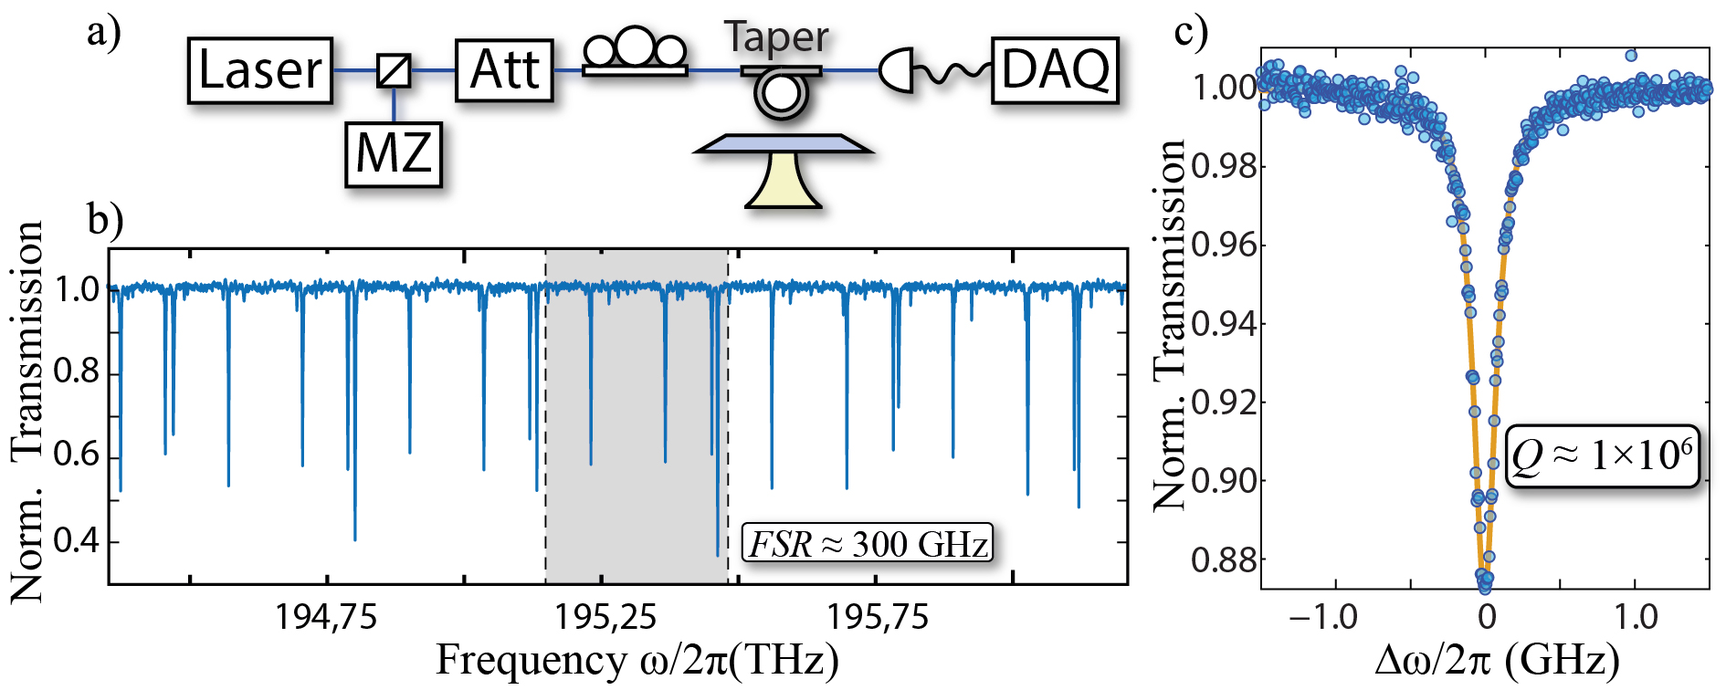
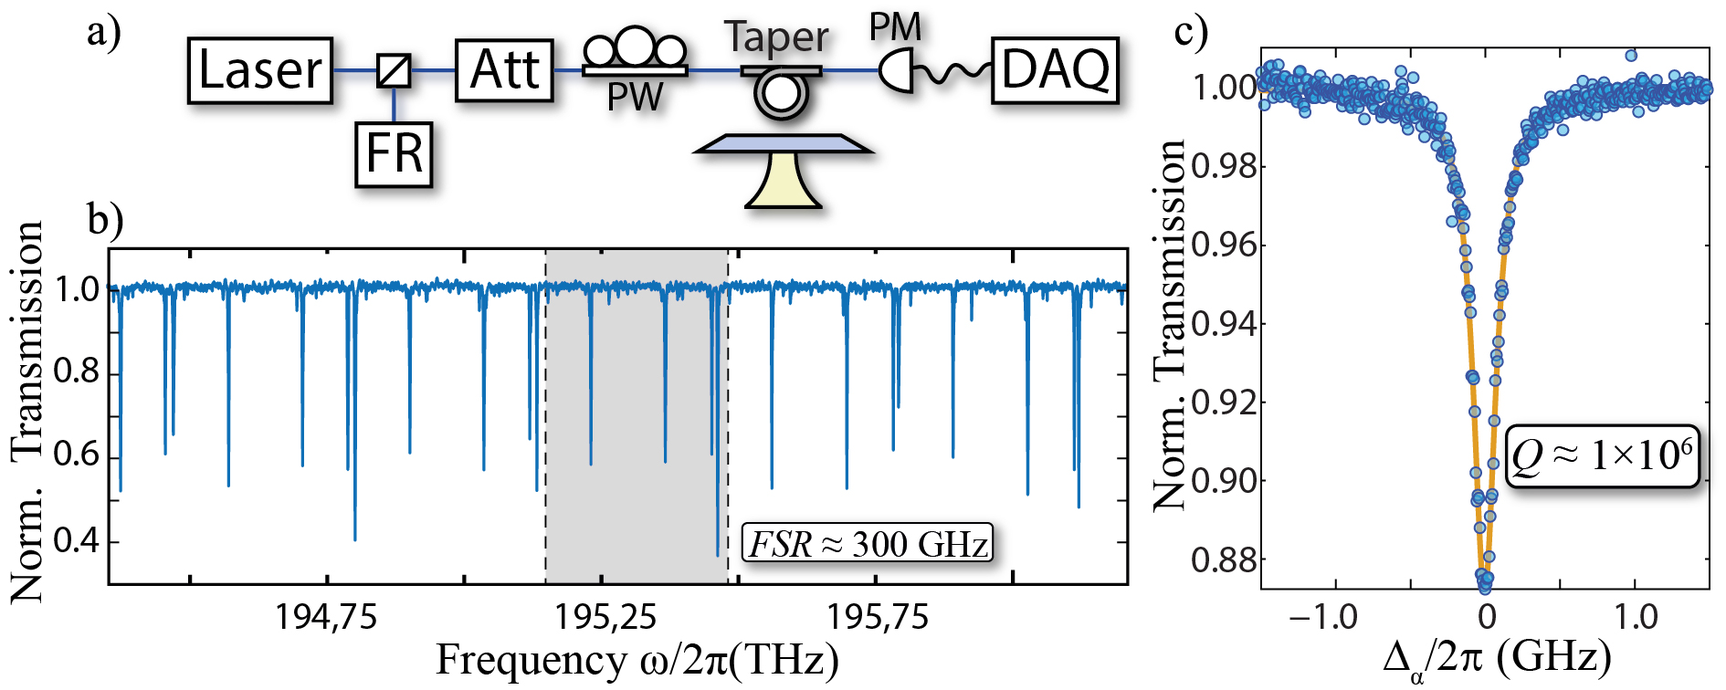
Updates from Overleaf

diff --git a/dis_jhs_cap3.tex b/dis_jhs_cap3.tex
@@ -71,38 +71,38 @@ This step introduce some extra terms in the Eq~\ref{eq:rate_equation_1}, which r
 \end{equation}
 Wheres $\kappa_\alpha = \kappa^{(i)}_\alpha+\kappa^{(e)}_\alpha$ are the total rate of energy loss, composed by the intrinsic loss, suck material absorption and scattering loss, and couple loss due to coupling with the source. 
 
-Finally, from input-output theory, it can be show that the feeding term can be written as $\sqrt{\kappa^{(e)}_\alpha}a_{in}(t)$, where $|a_{in}|^2$ gives the input power. Beside that, for our first analysis, we will consider that the nonlinear therm is small enough to be disregarded. This trick enable us to treat separately the temporal and spatial behavior of the optical modes. 
+Finally, from input-output theory, it can be show that the feeding term can be written as $\sqrt{\kappa^{(e)}_\alpha}S_{in}(t)$, where $|S_{in}|^2$ gives the input power. Beside that, for our first analysis, we will consider that the nonlinear therm is small enough to be disregarded. This trick enable us to treat separately the temporal and spatial behavior of the optical modes. 
 
 \subsection{Temporal Equations}
 
 To describe the temporal evolution of the confined modes, we use the rate equation write as 
 \begin{equation}
-    \dot{a}_\alpha = -\left(i\omega_\alpha +\frac{\kappa_\alpha}{2}\right)a_\alpha +\sqrt{\kappa^{(e)}_\alpha}a_{in}(t).
+    \dot{a}_\alpha = -\left(i\omega_\alpha +\frac{\kappa_\alpha}{2}\right)a_\alpha +\sqrt{\kappa^{(e)}_\alpha}S_{in}(t).
     \label{eq:rate_equation2}
 \end{equation} 
 
-In typical laboratory condition, $a_{in}(t)$ correspond to a narrow spectral distribution centered at frequency $\omega$. We are able to rewrite Eq~\ref{eq:rate_equation2} in a rotating reference frame that turns the source terms into a constant by interchange $a_\alpha \rightarrow a_\alpha e^{-i\omega t}$
+In typical laboratory condition, $S_{in}(t)$ correspond to a narrow spectral distribution centered at frequency $\omega$. We are able to rewrite Eq~\ref{eq:rate_equation2} in a rotating reference frame that turns the source terms into a constant by interchange $a_\alpha \rightarrow a_\alpha e^{-i\omega t}$
 \begin{equation}
-    \dot{a}_\alpha = -\left(i\Delta_\alpha +\frac{\kappa_\alpha}{2}\right)a_\alpha +\sqrt{\kappa^{(e)}_\alpha}a_{in}.
+    \dot{a}_\alpha = -\left(i\Delta_\alpha +\frac{\kappa_\alpha}{2}\right)a_\alpha +\sqrt{\kappa^{(e)}_\alpha}S_{in}.
     \label{eq:rate_equation_unperturbed}
 \end{equation}
 where $\Delta_\alpha = \omega_\alpha - \omega$ is called the detuning.
 \begin{figure}[t!]
     \centering
     \includegraphics[width = 16cm]{Dissertation_rate_equation.jpg}
-    \caption{\textbf{a) Time Dependence Solution of Intracavity Energy:} The energy stored in a cavity oscillate in a frequency $\Delta_\alpha$ and decay with a rate $\kappa_\alpha$ to the Stead Solution. \textbf{b) Picture System:} Our System are compound by a cavity with a single mode $a_\alpha$ that presents intrinsic loss $\kappa_\alpha^{(i)}$. The mode couple with a Source at a rate $\kappa_\alpha^{(e)}$ and interacts with an incoming wave with complex amplitude $a_{in}$. The squared modulus of the output $S_\alpha$ are measured. \textbf{c) Spectroscopy of the $\alpha$th mode:} The transmission of the cavity gives a Lorentzian curve wheres the full width at half maximum correspond to the total loss. This graphic show it for three different regimes.}
+    \caption{\textbf{a) Time Dependence Solution of Intracavity Energy:} The energy stored in a cavity oscillate in a frequency $\Delta_\alpha$ and decay with a rate $\kappa_\alpha$ to the Stead Solution. \textbf{b) Picture System:} Our System are compound by a cavity with a single mode $a_\alpha$ that presents intrinsic loss $\kappa_\alpha^{(i)}$. The mode couple with a Source at a rate $\kappa_\alpha^{(e)}$ and interacts with an incoming wave with complex amplitude $S_{in}$. The squared modulus of the output $S_\alpha$ are measured. \textbf{c) Spectroscopy of the $\alpha$th mode:} The transmission of the cavity gives a Lorentzian curve wheres the full width at half maximum correspond to the total loss. This graphic show it for three different regimes.}
     \label{fig:rate_equations_single_mode}
 \end{figure}
 
 The Eq~\ref{eq:rate_equation_unperturbed} accepts harmonic solutions with frequency $\Delta_\alpha$. Nevertheless these solutions decay, with a  $\kappa_\alpha/2$ rate, into a steady state solution. We usually operates the system in a time scale much larger than $\kappa^{-1}$, thus we consider just the steady state solution, as show in Fig~\subref{fig:rate_equations_single_mode}{a}
 
-We have already introduced the required formalism to describe our problem, at this point a more pictorial view of it would be very useful. For that we shall use the Fig~\subref{fig:rate_equations_single_mode}{b}. Lets consider our system composed by a optical cavity and a source. This cavity have a optical mode with amplitude $a_\alpha$, and present intrinsic energy loss $\kappa_\alpha^{(i)}$ due scattering and absorption. The source carry a input wave $a_{in}$ at frequency $\omega$ which couple with the cavity at a $\kappa_\alpha^{(e)}$ rate, the optical mode couple back with the source at the same frequency, in such way that this couple is seen as a loss channel. The outgoing wave, defined as $S_\alpha$, carry information about the source and the optical mode, in this way
+We have already introduced the required formalism to describe our problem, at this point a more pictorial view of it would be very useful. For that we shall use the Fig~\subref{fig:rate_equations_single_mode}{b}. Lets consider our system composed by a optical cavity and a source. This cavity have a optical mode with amplitude $a_\alpha$, and present intrinsic energy loss $\kappa_\alpha^{(i)}$ due scattering and absorption. The source carry a input wave $S_{in}$ at frequency $\omega$ which couple with the cavity at a $\kappa_\alpha^{(e)}$ rate, the optical mode couple back with the source at the same frequency, in such way that this couple is seen as a loss channel. The outgoing wave, defined as $S_\alpha$, carry information about the source and the optical mode, in this way
 \begin{equation}
-    S_\alpha = a_{in} - \sqrt{2 \kappa_\alpha^{(e)}}a_\alpha.
+    S_\alpha = S_{in} - \sqrt{2 \kappa_\alpha^{(e)}}a_\alpha.
 \end{equation}
 For the steady state solution we have $\dot{a} = 0$, which lead us to define the transmission of the cavity as
 \begin{equation}
-    T = \left|\frac{S_\alpha}{a_{in}}\right|^2 = \frac{\left(\kappa_\alpha^{(i)} -\kappa_\alpha^{(e)}\right)^2 + (2\Delta_\alpha)^2}{\left(\kappa_\alpha^{(i)} +\kappa_\alpha^{(e)}\right)^2 + (2\Delta_\alpha)^2}.
+    T = \left|\frac{S_\alpha}{S_{in}}\right|^2 = \frac{\left(\kappa_\alpha^{(i)} -\kappa_\alpha^{(e)}\right)^2 + (2\Delta_\alpha)^2}{\left(\kappa_\alpha^{(i)} +\kappa_\alpha^{(e)}\right)^2 + (2\Delta_\alpha)^2}.
     \label{eq:single_mode_transmission}
 \end{equation}
 
@@ -144,7 +144,7 @@ Where $\nabla_t^2 = \nabla^2 - \partial^2/\partial z^2$.
 \begin{figure}[b!]
     \centering
     \includegraphics[width =16cm]{Dissertation_wgm.jpg}
-    \caption{Caption}
+    \caption{\textbf{a) Whispering Gallery Mode:} Intensity of the electric field. The WGM confine the optical mode in the edges of the cavity. \textbf{b) Wedge Cavity:} Image take from a Scanning Electron Microscope of the cavity used in this study. \textbf{c) Coordinates:} The coordinates of the problem are defined as that. This mode is a TM21 with $m = 526$ and frequency $\omega_\alpha/2\pi = 193.5$~THz}.
     \label{fig:wgm}
 \end{figure}
 It might be have been overlooked, but the Eq~\ref{eq:wave_eq} is a system with 6 equation; one for which field in each coordinate. The solution for this set of equation with boundary condition define the optical modes of our problem. To solve this equations we must apply consideration about symmetry, however we use numerical methods to solve it. We will use the commercial software COMSOL\regmark, in Appendix~\ref{app:Comsol_Solution} we explained step by step how this solutions are done. 
@@ -186,7 +186,7 @@ The experiment is made using the setup showed in the  Fig~\ref{fig:exp_mode_char
 \begin{figure}[h!]
     \centering
     \includegraphics[width = 16cm]{figuras/Dissertation_optical_char_exp.jpg}
-    \caption{Caption}
+    \caption{\textbf{a) Experimental Setup:} The key components of the Setup is the Laser used as source, a tapered optical fiber that couple the source with the cavity and power meter to monitor the output. The frequency of the laser are precisely determined using a Frequency Reference (FR) composed of a Mach Zehnder interferometer and a Hydrogen Cyanide cell. We use a tunable attenuator (ATT) to control the input power. The polarization of the input wave is controlled using a fiber polarization control (PW). \textbf{b) Single Mode:} Transmission for a single mode used to measure the losses of the mode. \textbf{c) Broad Band Transmission:} spectroscopy of the cavity for a broad band to measured the Free Spectral Range.} 
     \label{fig:exp_mode_charac}
 \end{figure}
 
@@ -199,12 +199,8 @@ According with the Eq.~\ref{eq:finesse}, we reached a finesse of about $\mathcal
 A Fraction of the losses are due the material absorption, when we are working with high intracavity power this absorption lead to a thermal effects called bistability. 
 
 \subsection{Pump Bistability}
-The resonance frequency of the cavity are correlated with the refractive index of the material, which is a function of the temperature. Treating this as a perturbation problem, we can write \begin{figure}[b]
-    \centering
-    \includegraphics[width = 16cm]{Dissertation_bistabilite.jpg}
-    \caption{Caption}
-    \label{fig:bistable}
-\end{figure}
+
+The resonance frequency of the cavity are correlated with the refractive index of the material, which is a function of the temperature. Treating this as a perturbation problem, we can write 
 
 \begin{subequations}
     \begin{alignat}{2}
@@ -223,25 +219,31 @@ Here, the $\Delta T$ is proportional from the amount of energy absorbed by the m
 \label{eq:pertubation_bistaliti_cavity}
 \end{equation}   
 
-Including the contribution in the rate equation, Eq~\ref{eq:rate_equation2}, after the transformation of reference frame, the bistable rate equation can be write as 
+Including the contribution in the rate equation Eq~\ref{eq:rate_equation2} after the transformation of reference frame, the bistable rate equation can be write as 
 \begin{equation}
-\dot{a}_\alpha = -\left(i\Delta_\alpha + i\omega_\alpha A|a_\alpha|^2 + \frac{\kappa_\alpha}{2}\right)a_\alpha + \sqrt{\kappa^{(e)}_\alpha}a_{in}
+\dot{a}_\alpha = -\left(i\Delta_\alpha + i\omega_\alpha A|a_\alpha|^2 + \frac{\kappa_\alpha}{2}\right)a_\alpha + \sqrt{\kappa^{(e)}_\alpha}S_{in}
 \label{eq:rate_equation_bistable}
 \end{equation}
+The new term $A$ is called the of self phase modulation (SFM),
 
 As usual, we looking to the steady state solution. Depending on the $\Delta$ value, this equation can present three different solutions. To visualize it, lets write the Eq~\ref{eq:rate_equation_bistable} as 
 \begin{equation}
-    |a_\alpha|^2 = \frac{4\kappa^{(e)}_\alpha |a_{in}|^2}{4\left(\Delta_\alpha + \omega_\alpha A|a_\alpha|^2\right)^2+\kappa_\alpha^2} 
+    |a_\alpha|^2 = \frac{4\kappa^{(e)}_\alpha |S_{in}|^2}{4\left(\Delta_\alpha + \omega_\alpha A|a_\alpha|^2\right)^2+\kappa_\alpha^2} 
 \end{equation}
 
-The Fig~\ref{fig:bistable}a
-shows the plot of the LHS and RHS in function of $|a_\alpha|^2$. Depending on the value of $\Delta_\alpha$ and $|a_{in}|$ there are three different solutions for this equation, but the intermediate one is always unstable, which lead to the well-know bistable transmission show in Fig~\ref{fig:bistable}b
-Controlling the input power using the attenuator, as showed in the setup of the Fig~\ref{fig:exp_mode_charac}c, it is possible to experimental measure the bistability, this measure are show in Fig~\ref{fig:bistable}c 
-.
+The Fig~\subref{fig:bistable}{a}
+shows the plot of the LHS and RHS in function of $|a_\alpha|^2$. Depending on the value of $\Delta_\alpha$ and $|S_{in}|$ there are three different solutions for this equation, but the intermediate one is always unstable, which lead to the well-know bistable transmission show in Fig~\subref{fig:bistable}{b}
+Controlling the input power using the attenuator, as showed in the setup of the Fig~\subref{fig:exp_mode_charac}{c}, it is possible to experimental measure the bistability, this measure are show in Fig~\subref{fig:bistable}{c}. We found a value of around $A\approx 5.7\times10^7$~J$^{-1}$.
 
 As the pump frequency get closer to the resonance frequency, the intracavity power increases, which shifts the resonance to the red through self-phase modulation, until the pump frequency, $\omega$, reaches the resonance frequency, $\omega_\alpha$; at this point, the effective detuning is zero and the energy stored in the cavity it's maximum.  
 
 As the amplitude is normalize in such way that $|a_\alpha|^2$ is the energy storage in the cavity, hence is proportional to the intensity of the electric field, the effect felt by the cavity due to the Eq~\ref{eq:pertubation_bistaliti_cavity} is similar to the Kerr effect presented in the Eq~\ref{eq:kerr_effect_free_wave}, in fact, in some conditions the both effects are indistinguishable\needcit. For that reason both effects, bistability thermal and Kerr, will all be included in the same term of the rate equation~\ref{eq:rate_equation_bistable}.
+\begin{figure}[h]
+    \centering
+    \includegraphics[width = 16cm]{Dissertation_bistabilite.jpg}
+    \caption{\textbf{a) Numerical Method:} The Yellow curve are the identity function and represents the left side of the bistable rate equation. The curves Red and Blue are the right side of the equation with $\Delta_\alpha$ equal $1\times\kappa_\alpha$ and $-4\times\kappa_\alpha$, respectively, both with $|S_{in}|^2 = 1$. The Green curve have $\Delta_\alpha = -4\times\kappa_\alpha$, but $|S_{in}|^2 = 0.5$. \textbf{b) Bistable Transmission:} The Green and the Blue curves are the stable solution of the rate equation, this curve is well know as a bistable system. The dashed Orange is the unstable solution. The Dashed Gray is the same optical mode out of the regime of bistability. \textbf{c) Experimental Results:} Measuring the losses of the cavity out of the bistable regime, showed in Blue, is possible to measured the Phase Modulation using the frequency shifty due to the bistability. here we have $A_{I} = 5.7\times10^{7}$~J and $A_{II} = 3.2\times10^{6}$~J}
+    \label{fig:bistable}
+\end{figure}
 
 The bistability plays an important role in harmonic generation in optical cavity. Further this role will by better understood.  
 

diff --git a/dis_jhs_cap5.tex b/dis_jhs_cap5.tex
@@ -1,3 +1,141 @@
 \chapter{Couple Mode Theory}
 \label{chap:couple_mode}
-Descrição dos modos a1 e a3 considerando a perturbação de terceira ordem no autovalor. No final da sessão vou ter descrito a teoria do mapa de eficiência. Aqui uso como gancho a necessidade de saber os valores de $\kappa_e$ e $\kappa_i$ do visível e o valor de $J_3$ como motivação para todo o resto.  
+%Descrição dos modos a1 e a3 considerando a perturbação de terceira ordem no autovalor. No final da sessão vou ter descrito a teoria do mapa de eficiência. Aqui uso como gancho a necessidade de saber os valores de $\kappa_e$ e $\kappa_i$ do visível e o valor de $J_3$ como motivação para todo o resto.  
+
+The cavities we fabricate are designed to presents multiples optical modes. In this Chapter we shall study how the nonlinearity of the material affect this modes. Initially a infrared mode are excited using a external source, the third harmonic of the source act as a new source with the triple of the frequency in the neighborhood of a visible mode, leading to a couple behavior of this modes, this coupling can be described using the rate equation  
+
+\section{Couple Rate Equation}
+%
+%From now on we are interested in optical mode with specific feature. Lets assume a mode with frequency $\omega_1$ at infrared, we want to know how it couple with a visible mode of frequency $\omega_3 = 3\times\omega_1+\delta$. 
+%
+%\begin{subequations}
+%    \begin{alignat}{2}
+%        \dot{a}_1 &= -\left(i\Delta_1 + i\omega_1 A_1|a_1|^2 + i\omega_1 A_{13}|a_3|^2 + \frac{\kappa_1}{2}\right)a_1 + \sqrt{\kappa^{(e)}_1}S_{in},\\
+%        \dot{a}_3 &= -\left(i\Delta_3 + i\omega_3 A_3|a_3|^2+ i\omega_3 A_{31}|a_1|^2 + \frac{\kappa_3}{2}\right)a_3.
+%    \end{alignat}
+%\end{subequations}
+
+The Eq~\ref{eq:rate_equation_bistable} give us the behavior of a single mode. For problems with low nonlinearity, in other words, if we neglect terms of order $\left(\chi^{(n)}\right)^2$ and highers, the effect of the nonlinearity can be found using perturbation theory. 
+\begin{equation}
+    \frac{\delta\omega_\alpha}{\omega_\alpha} = \frac{1}{2}\frac{\bra{\vec{E}_\alpha}\delta\epsilon\ket{\vec{E}}}{\braket{\vec{E}_\alpha|\vec{E}_\alpha}} = \frac{1}{2}\frac{\int\vec{E}^*_\alpha\delta\vec{P}d^3\vec{r}}{\int \epsilon|\vec{E}_\alpha|^2d^3\vec{r}}
+    \label{eq:perp_theory}
+\end{equation}
+Note that $\vec{E}_\alpha$ is the unperturbed electric field of the $\alpha$th mode, while $\vec{E}$ is the total electric field. 
+
+For a generic problem $\delta\epsilon\ket{\vec{E}}=\ket{\delta\vec{P}}$ is the change in the polarization due to nonlinearity perturbation, as we are studding third order nonlinearity this perturbation can be write as $\delta\vec{P} = \epsilon\chi^{(3)}|\vec{E}|^2\vec{E}$. Our model assumes that there is only two different modes coupled, in such way that, the total electric field is
+\begin{equation}
+    \vec{E} = \vec{E}_1+\vec{E}_3+c.c.
+\end{equation}
+From now on, the label $1$ refers to the model in the infrared and the label $3$ to the mode in the visible. 
+The calculus of the Eq~\ref{eq:perp_theory} give rise to a total of sixty four terms for each one of the modes, however most of then are not of our interest. In order to filter this terms we will write the electric field with a explicit dependency of time $\vec{E}_\alpha(\vec{r},t) = a_\alpha(t) \vec{e}_\alpha(\vec{r})$. Considering the approximation of slowly variation, the amplitude $a_\alpha(t)$ can be considered as a harmonic function with frequency $\omega_\alpha$. Applying this trick, some terms of the Eq~\ref{eq:perp_theory} can be considered out of frequency and be neglected. The full expression for the perturbation for each mode is
+
+\begin{eqnarray}
+\frac{\delta\omega_1}{\omega_1} &=& -\frac{1}{8}\left[|a_1|^2\frac{\int\epsilon\chi^{(3)}
+\Big(|\vec{e}_1\cdot\vec{e}_1|^2 + 2|\vec{e}_1\cdot\vec{e}_1^*|^2
+\Big)d^3\vec{r}}
+{\int \epsilon|\vec{e}_1|^2 d^3\vec{r}}\right. +\nonumber\\
+&+&2|a_3|^2\frac{\int\epsilon\chi^{(3)}
+\Big((\vec{e}_1\cdot\vec{e}_1^*)(\vec{e}_3\cdot\vec{e}_3^*)+|\vec{e}_1\cdot\vec{e}_3|^2+|\vec{e}_1\cdot\vec{e}^*_3|^2
+\Big)d^3\vec{r}}
+{\int \epsilon|\vec{e}_1|^2 d^3\vec{r}}+\nonumber\\
+&+&\left.\frac{(a^*_1)^2a_3}{a_1}\frac{\int\epsilon\chi^{(3)}
+\Big(3(\vec{e}^*_1\cdot\vec{e}_1^*)(\vec{e}^*_1\cdot\vec{e}_3)
+\Big)d^3\vec{r}}
+{\int \epsilon|\vec{e}_1|^2 d^3\vec{r}}\right]
+\end{eqnarray}
+
+\begin{eqnarray}
+\frac{\delta\omega_3}{\omega_3} &=& -\frac{1}{8}\left[|a_3|^2\frac{\int\epsilon\chi^{(3)}
+\Big(|\vec{e}_3\cdot\vec{e}_3|^2 + 2|\vec{e}_3\cdot\vec{e}_3^*|^2
+\Big)d^3\vec{r}}
+{\int \epsilon|\vec{e}_3|^2 d^3\vec{r}}\right. +\nonumber\\
+&+&2|a_1|^2\frac{\int\epsilon\chi^{(3)}
+\Big((\vec{e}_1\cdot\vec{e}_1^*)(\vec{e}_3\cdot\vec{e}_3^*)+|\vec{e}_1\cdot\vec{e}_3|^2+|\vec{e}_1\cdot\vec{e}^*_3|^2
+\Big)d^3\vec{r}}
+{\int \epsilon|\vec{e}_3|^2 d^3\vec{r}}+\nonumber\\
+&+&\left.\frac{(a_1)^3}{a_3}\frac{\int\epsilon\chi^{(3)}
+\Big(3(\vec{e}_1\cdot\vec{e}_1)(\vec{e}_1\cdot\vec{e}^*_3)
+\Big)d^3\vec{r}}
+{\int \epsilon|\vec{e}_3|^2 d^3\vec{r}}\right]
+\end{eqnarray}
+
+In order to normalize the amplitude in such way that $|a_\alpha(t)|^2$ is the energy stored in the $\alpha$th mode, we should normalize the electric field $\vec{e}_\alpha \rightarrow\vec{e}_\alpha/\int|\vec{e}_\alpha|^2 d^3\vec{r}$. Using this form, the perturbation can be linked with the rate equation making $\omega_\alpha \rightarrow \omega_\alpha + \delta\omega_\alpha$. We can factorize the expression based in the dependence of the amplitude. 
+
+\begin{eqnarray}
+\frac{\delta\omega_1}{\omega_1} &=& A_{11}|a_1|^2 + A_{13}|a_3|^2 + B_1\frac{(a^*_1)^2a_3}{a_1},\label{eq:ir_per}\\
+\frac{\delta\omega_3}{\omega_3} &=& A_{33}|a_3|^2 + A_{31}|a_1|^2 + B_3\frac{(a_1)^3}{a_3}\label{eq:vis_per}.
+\end{eqnarray}
+
+%The rate equation for both modes are write as
+Once identified all terms, we use the rotation frame approximation making $a_1 \rightarrow a_1e^{i\omega t}$ and $a_3 \rightarrow a_3e^{i3\omega t}$, with $\omega$ being the source frequency. Them we have 
+\begin{subequations}
+    \begin{alignat}{1}
+        \dot{a}_1 &= -\left(i\Delta_1 + \omega_1i(A_{11} |a_1|^2 + A_{13} |a_3|^2) + \kappa_{1}\right)a_1 - i\omega_1 B_1(a^*_1)^2a_3 
+        +\sqrt{2 \kappa^{(e)}_1}S_{in}
+        \label{eq:taxa_ir_broad}\\
+        \dot{a}_3 &= -\left(i\Delta_3 + \omega_3i(A_{31} |a_1|^2 + A_{33} |a_3|^2) + \kappa_{3}\right)a_3 - i\omega_3 B_3(a_1)^3.
+        \label{eq:taxa_vis_broad}
+    \end{alignat}
+    \label{eq:rate_broad}
+\end{subequations}
+This move lead us to few new terms. Lets take a look to each one of them. Initially, we have $\Delta_1 = \omega_1 - \omega$ and $\Delta_3 = \omega_3 - 3\times\omega$. 
+
+The terms $A_{\alpha\alpha}$ look like to the SPM term presented in Eq~\ref{eq:rate_equation_bistable}, in fact both are responsible for the same effect. 
+
+The directly dependence of the refractive index with the intensity of the electric field is called the Optical Kerr effect. It is possible to show that due to third order nonlinearity, the refractive index can be write as~\needcit
+\begin{equation}
+    \text{n} = \text{n}_0 + 2\bar{\text{n}}_2|E|^2 
+\end{equation}
+If included in the wave equation, it lead to the same bistable behavior discussed before. The difference between Kerr bistability and thermotic bistability lies in the nature of both. The Kerr effect responds at a time scale faster than thermotic~\needcit and have to due just with the material, meanwhile the thermotic bistability is a intrinsic behavior of the optical cavity and can be affect by both, material and geometry. However, at the specific experimental condition, we can not distinguish the individual contribution of each one in the transmission~\needcit, hence we consider just one SPM term that includes contributions of both, Kerr and thermotic. 
+
+Futhermore, the Eqs~\ref{eq:rate_broad} present another similar term, with the form $A_{ij}|a_j|^2$. The effec of this term is exactly the one discussed before, but the bistability are generated due to the other optical mode, for both Kerr and thermotic~\needcit. This term are called Cross Phase Modulation (XPM). The expression for Kerr SPM and XPM can be take from the perturbation theory as 
+
+
+\begin{subequations}
+    \begin{alignat}{1}
+        A_{ii} &= \frac{1}{8}\frac{\int\epsilon\chi^{(3)}
+        \Big[|\vec{e}_i\cdot\vec{e}_i|^2 + 2|\vec{e}_i\cdot\vec{e}_i^*|^2
+        \Big]d^3\vec{r}}{\Big[\int \epsilon|\vec{e}_i|^2 d^3\vec{r}\Big]^2},
+        \\
+        A_{ji} &= \frac{1}{4}\frac{\int\epsilon\chi^{(3)}
+        \Big[|\vec{e}_i|^2|\vec{e}_j|^2 + |\vec{e}_i\cdot\vec{e}_j|^2+ |\vec{e}_i\cdot\vec{e}_j^*|^2
+        \Big]d^3\vec{r}}{\Big[\int \epsilon|\vec{e}_i|^2 d^3\vec{r}\Big]\Big[\int \epsilon|\vec{e}_j|^2 d^3\vec{r}\Big]}.
+    \end{alignat}
+\end{subequations}
+
+The other new terms are thus with $B_1$ and $B_3$. It is important to emphasize the fact that the amplitude $a_\omega$ is complex, so this term presents a real and a imaginary part, which act as a source term. We will call it the Coupling term, it is responsible for convert energy from one mode to the other. The expression for both, can be take from the perturbation theory as
+\begin{subequations}
+    \begin{alignat}{1}
+        B_{1} &= \frac{3}{8}\frac{\int\epsilon\chi^{(3)}
+        (\vec{e}_1^*\cdot\vec{e}_1^*)(\vec{e}_1^*\cdot\vec{e}_3)
+        d^3\vec{r}}{\Big[\int \epsilon|\vec{e}_1|^2 d^3\vec{r}\Big]^{3/2}\Big[\int \epsilon|\vec{e}_3|^2 d^3\vec{r}\Big]^{1/2}},
+        \label{eq:coupling_b1}
+        \\
+        B_{3} &= \frac{1}{8}\frac{\int\epsilon\chi^{(3)}
+        (\vec{e}_1\cdot\vec{e}_1)(\vec{e}_1\cdot\vec{e}^*_3)
+        d^3\vec{r}}{\Big[\int \epsilon|\vec{e}_1|^2 d^3\vec{r}\Big]^{3/2}\Big[\int \epsilon|\vec{e}_3|^2 d^3\vec{r}\Big]^{1/2}}.
+        \label{eq:coupling_b3}
+    \end{alignat}
+    \label{eq:coupling}
+\end{subequations}
+
+%Using energy conservation $\frac{d}{dt}\left(|a_1|^2+|a_3|^2\right) = 0$ we can find that $\omega_1B_1 = \omega_3B^*_3$ 
+In order to solve the Coupled Rate Equations Eq~\ref{eq:rate_broad} we will use a numerical method with the software Mathematica, the Appendix~\ref{app:numerical_met} treat about the method, now we are interested in the results. 
+
+\section{Numerical Results}
+
+Our problem can be modulate as show in Fig~%\ref
+A system compound by a cavity with two modes, one in infrared $a_1$ and one in visible $a_3$, a input wave $S_{in}$ with frequency near of the infrared mode. Both modes couple with the source, the Output wave are defined as 
+\begin{subequations}
+    \begin{align}
+        S_1 &= S_{in} - \sqrt{\kappa^{(e)}_1}a_1\\
+        S_3 &= \sqrt{\kappa^{(e)}_3}a_3
+    \end{align}
+\end{subequations}
+
+Initially, lest solve the Eq~\ref{eq:rate_broad} assuming that $\omega_3 = 3\times\omega_1$. The Fig~%\ref
+brings a well know bistable curve for the infrared mode (Red) while the Fig~% 
+shows a slightly deformed curve for the visible mode. At first look the deformation can be explained by the cubic relation between the third harmonic power and the infrared power, although this result are true just if we assume that $\omega_3 = 3\times\omega_1$, which is not true due to the dispersion of the modes. A more general model assume that $\omega_3 = 3\times\omega_1 + \delta\omega$, in such case, the shape of the curve can be totally changed in function of the value of $\delta\omega$. The Fig~%\
+shows some case. 
+
+This dynamics occurs due to the SPM and XPM terms. The displacement from the initial frequency are different for each mode 

diff --git a/dis_jhs_cap2.tex b/dis_jhs_cap2.tex
@@ -124,13 +124,14 @@ For a bulk we have
 Note that the nonlinear susceptibility, $\Bar{\chi}^{(2)}$, $\Bar{\chi}^{(3)}$, are rank 2 and rank 4 tensors, respectively.
 
 The main reason behind the math showed in this section is to make clear and intuitive that the generation of high orders harmonics occurs only due the interaction between an incident wave and the matter. This will be an important statement further below. 
-
-Now that I have convinced you that an anharmonic potential are able to generate high orders harmonic in the motion of the electrons leading to nonlinear terms for the polarization.% REWRITE.
+%Now that I have convinced you that an anharmonic potential are able to generate high orders harmonic in the motion of the electrons leading to nonlinear terms for the polarization.% REWRITE.
 
 \section{Wave Equation}
 \label{sec:wave_equation}
 
-Lets now consider the effect of polarization upon the wave equation for a nonlinear optical medium. Starting with Maxwell's equations
+We have looked in how the interaction between a harmonic wave electromagnetic wave and a nonlinear material generate high order harmonics. Lets now suppose the existence of two waves with different frequency and consider the effect of polarization upon the wave equation for a nonlinear optical medium. 
+
+Starting with Maxwell's equations
 
 \begin{subequations}
     \begin{alignat}{2}

diff --git a/dis_jhs_nomenclature.tex b/dis_jhs_nomenclature.tex
@@ -37,3 +37,8 @@
 \nomenclature[C 7]{$\Delta$}{Laser Detuning}
 \nomenclature[C 8]{$\mathcal{F}$}{Finesse}
 \nomenclature[c ]{$\beta$}{Vacuum Wavenumber of Light}
+
+%chapter 5
+\nomenclature[E 1]{$A_{ii}$}{Self Phase Modulation of the $i$th mode}
+\nomenclature[E 2]{$A_{ij}$}{Cross Phase Modulation of the $i$th mode due to the $j$th mode}
+\nomenclature[E 3]{$B_ij$}{Coupling Coefficient between $i$th and $j$th modes}

diff --git a/dis_jhs_app1.tex b/dis_jhs_app1.tex
@@ -1,4 +1,4 @@
-\chapter{Appendex}
+\chapter{Finite Element Analysis}
 \label{app:Comsol_Solution}
 
 Due to the symmetry of the problem, is suitable write it in cylindrical coordinates, which enable us to decouple the equation for the $z$ direction, hence

diff --git a/main.tex b/main.tex
@@ -190,6 +190,7 @@ Carta de Aprovação
 \include{dis_jhs_conc}
 \appendix
 \include{dis_jhs_app1}
+\include{dis_jhs_app2}
 
 \addcontentsline{toc}{chapter}{Referênciasbibliográficas}
 \spacing{1.15}

diff --git a/dis_jhs_app2.tex b/dis_jhs_app2.tex
@@ -1,0 +1,2 @@
+\chapter{Numerical Solution of Ordinary Differential Equations}
+\label{app:numerical_met}
